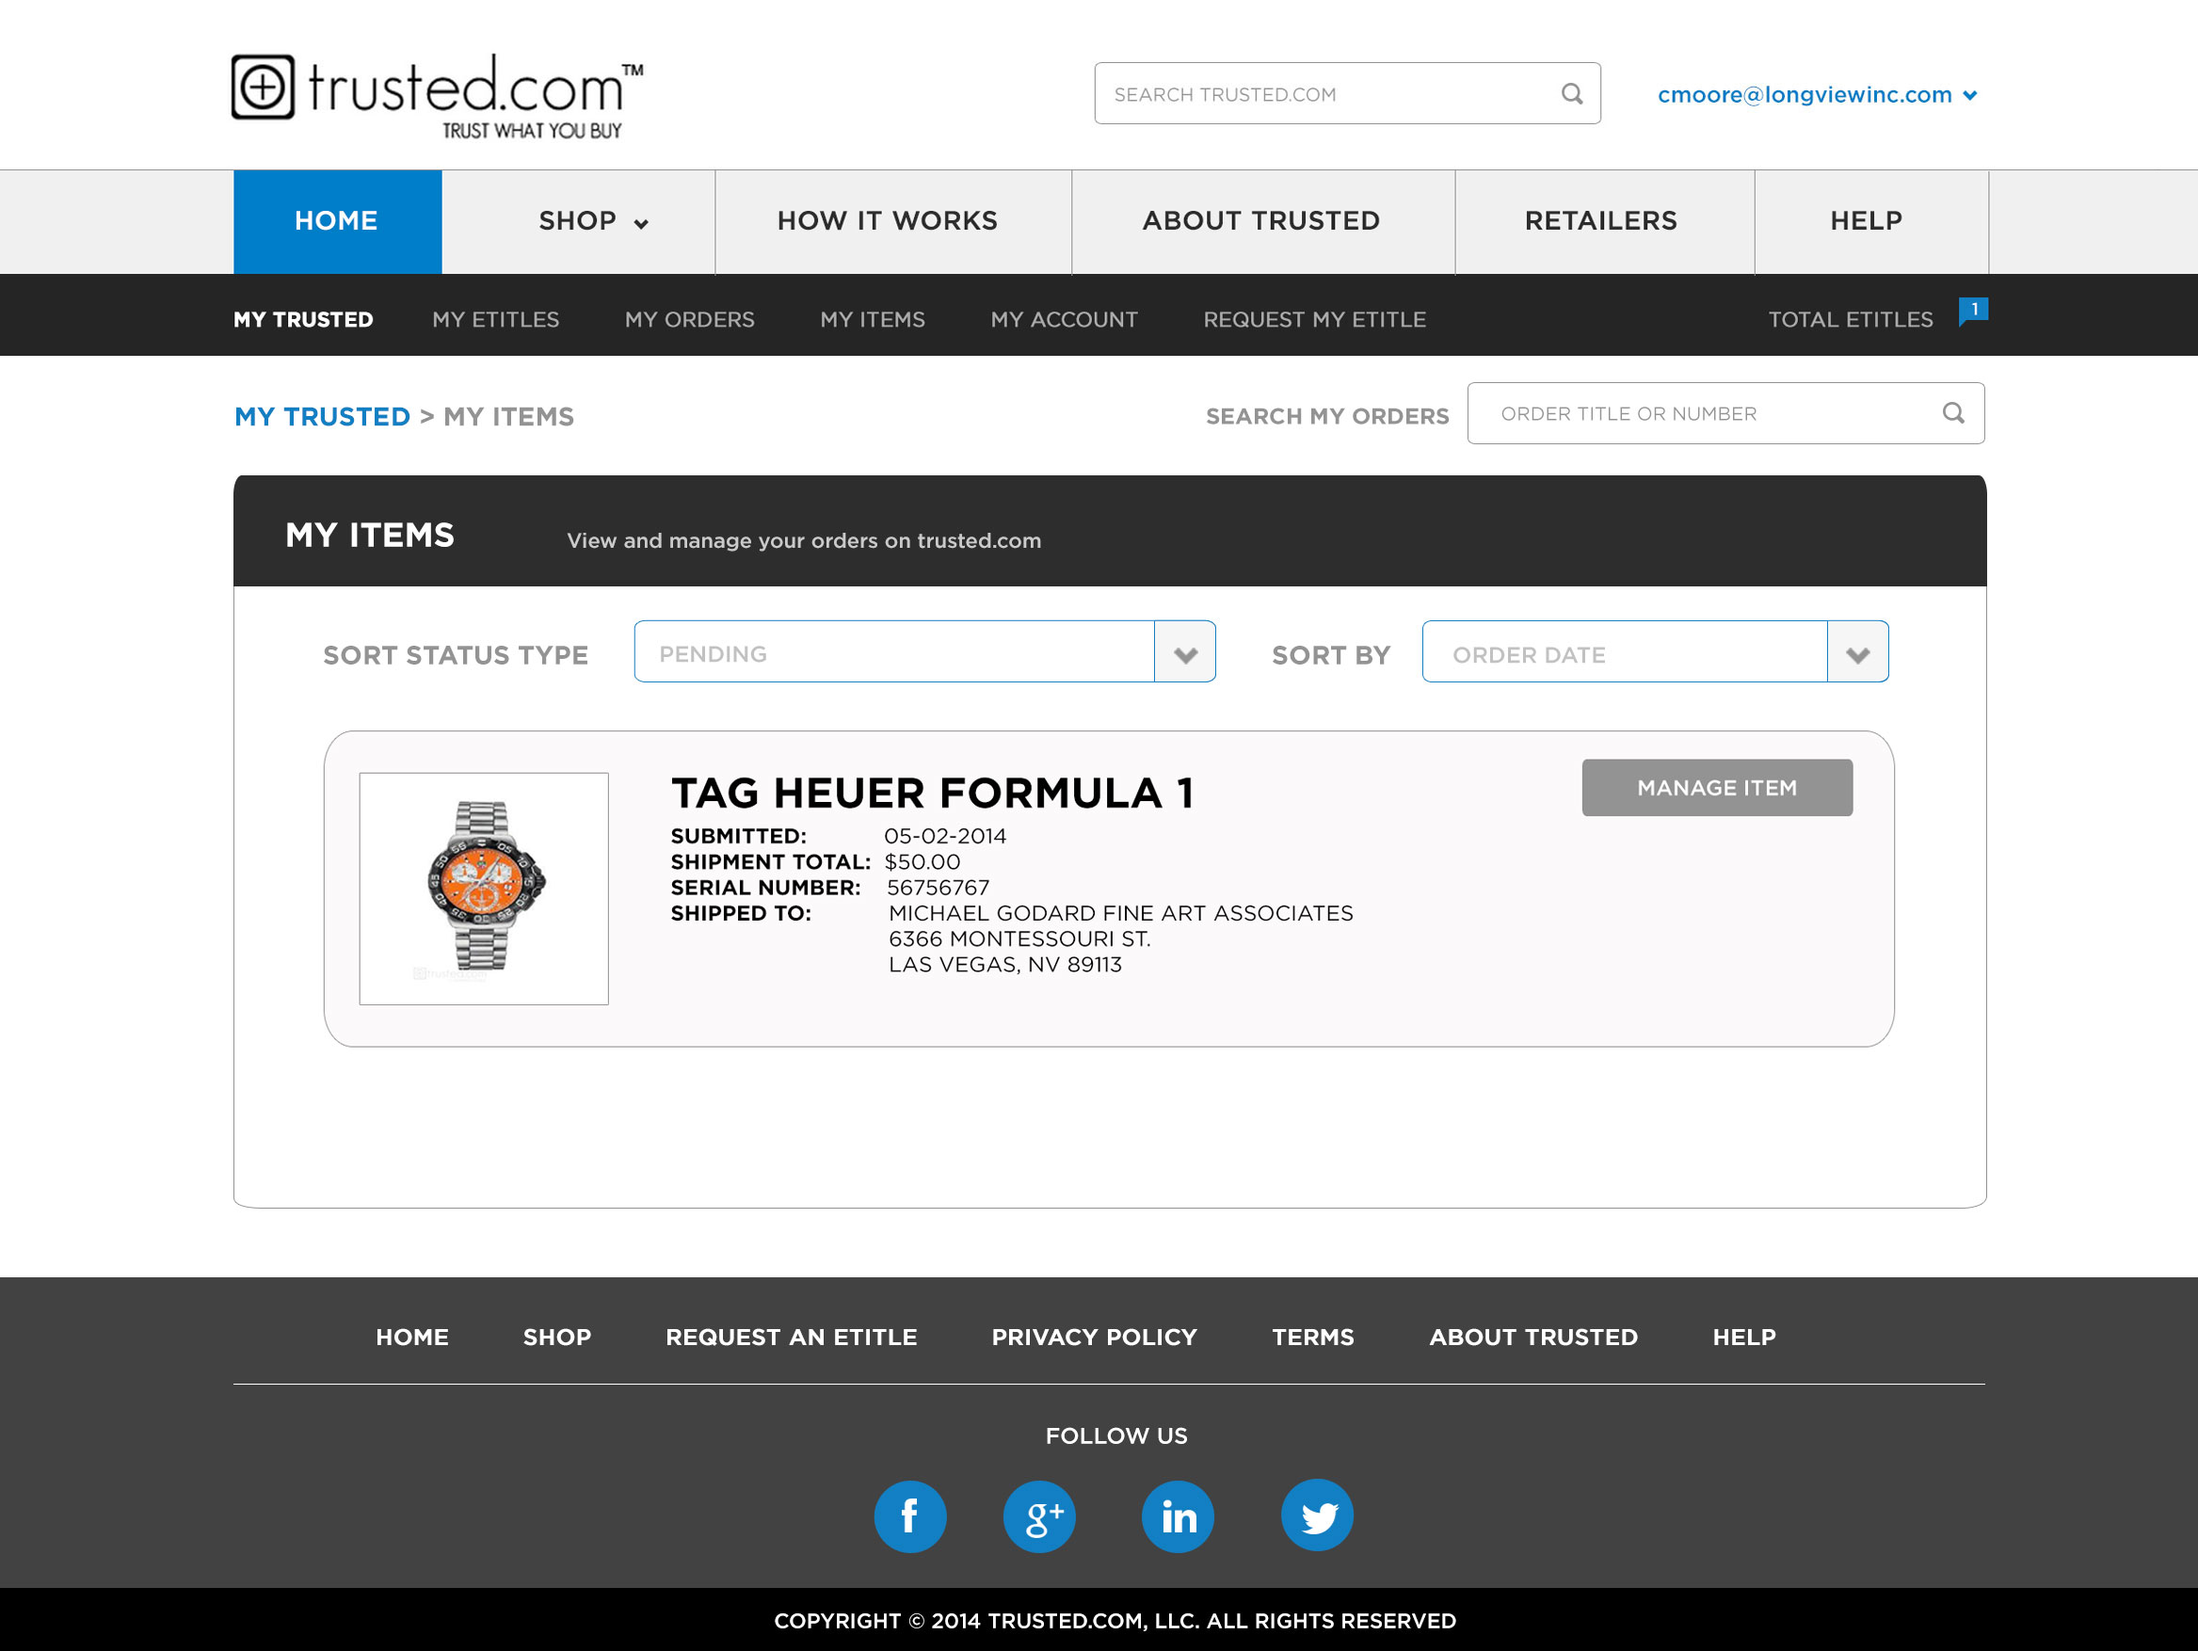
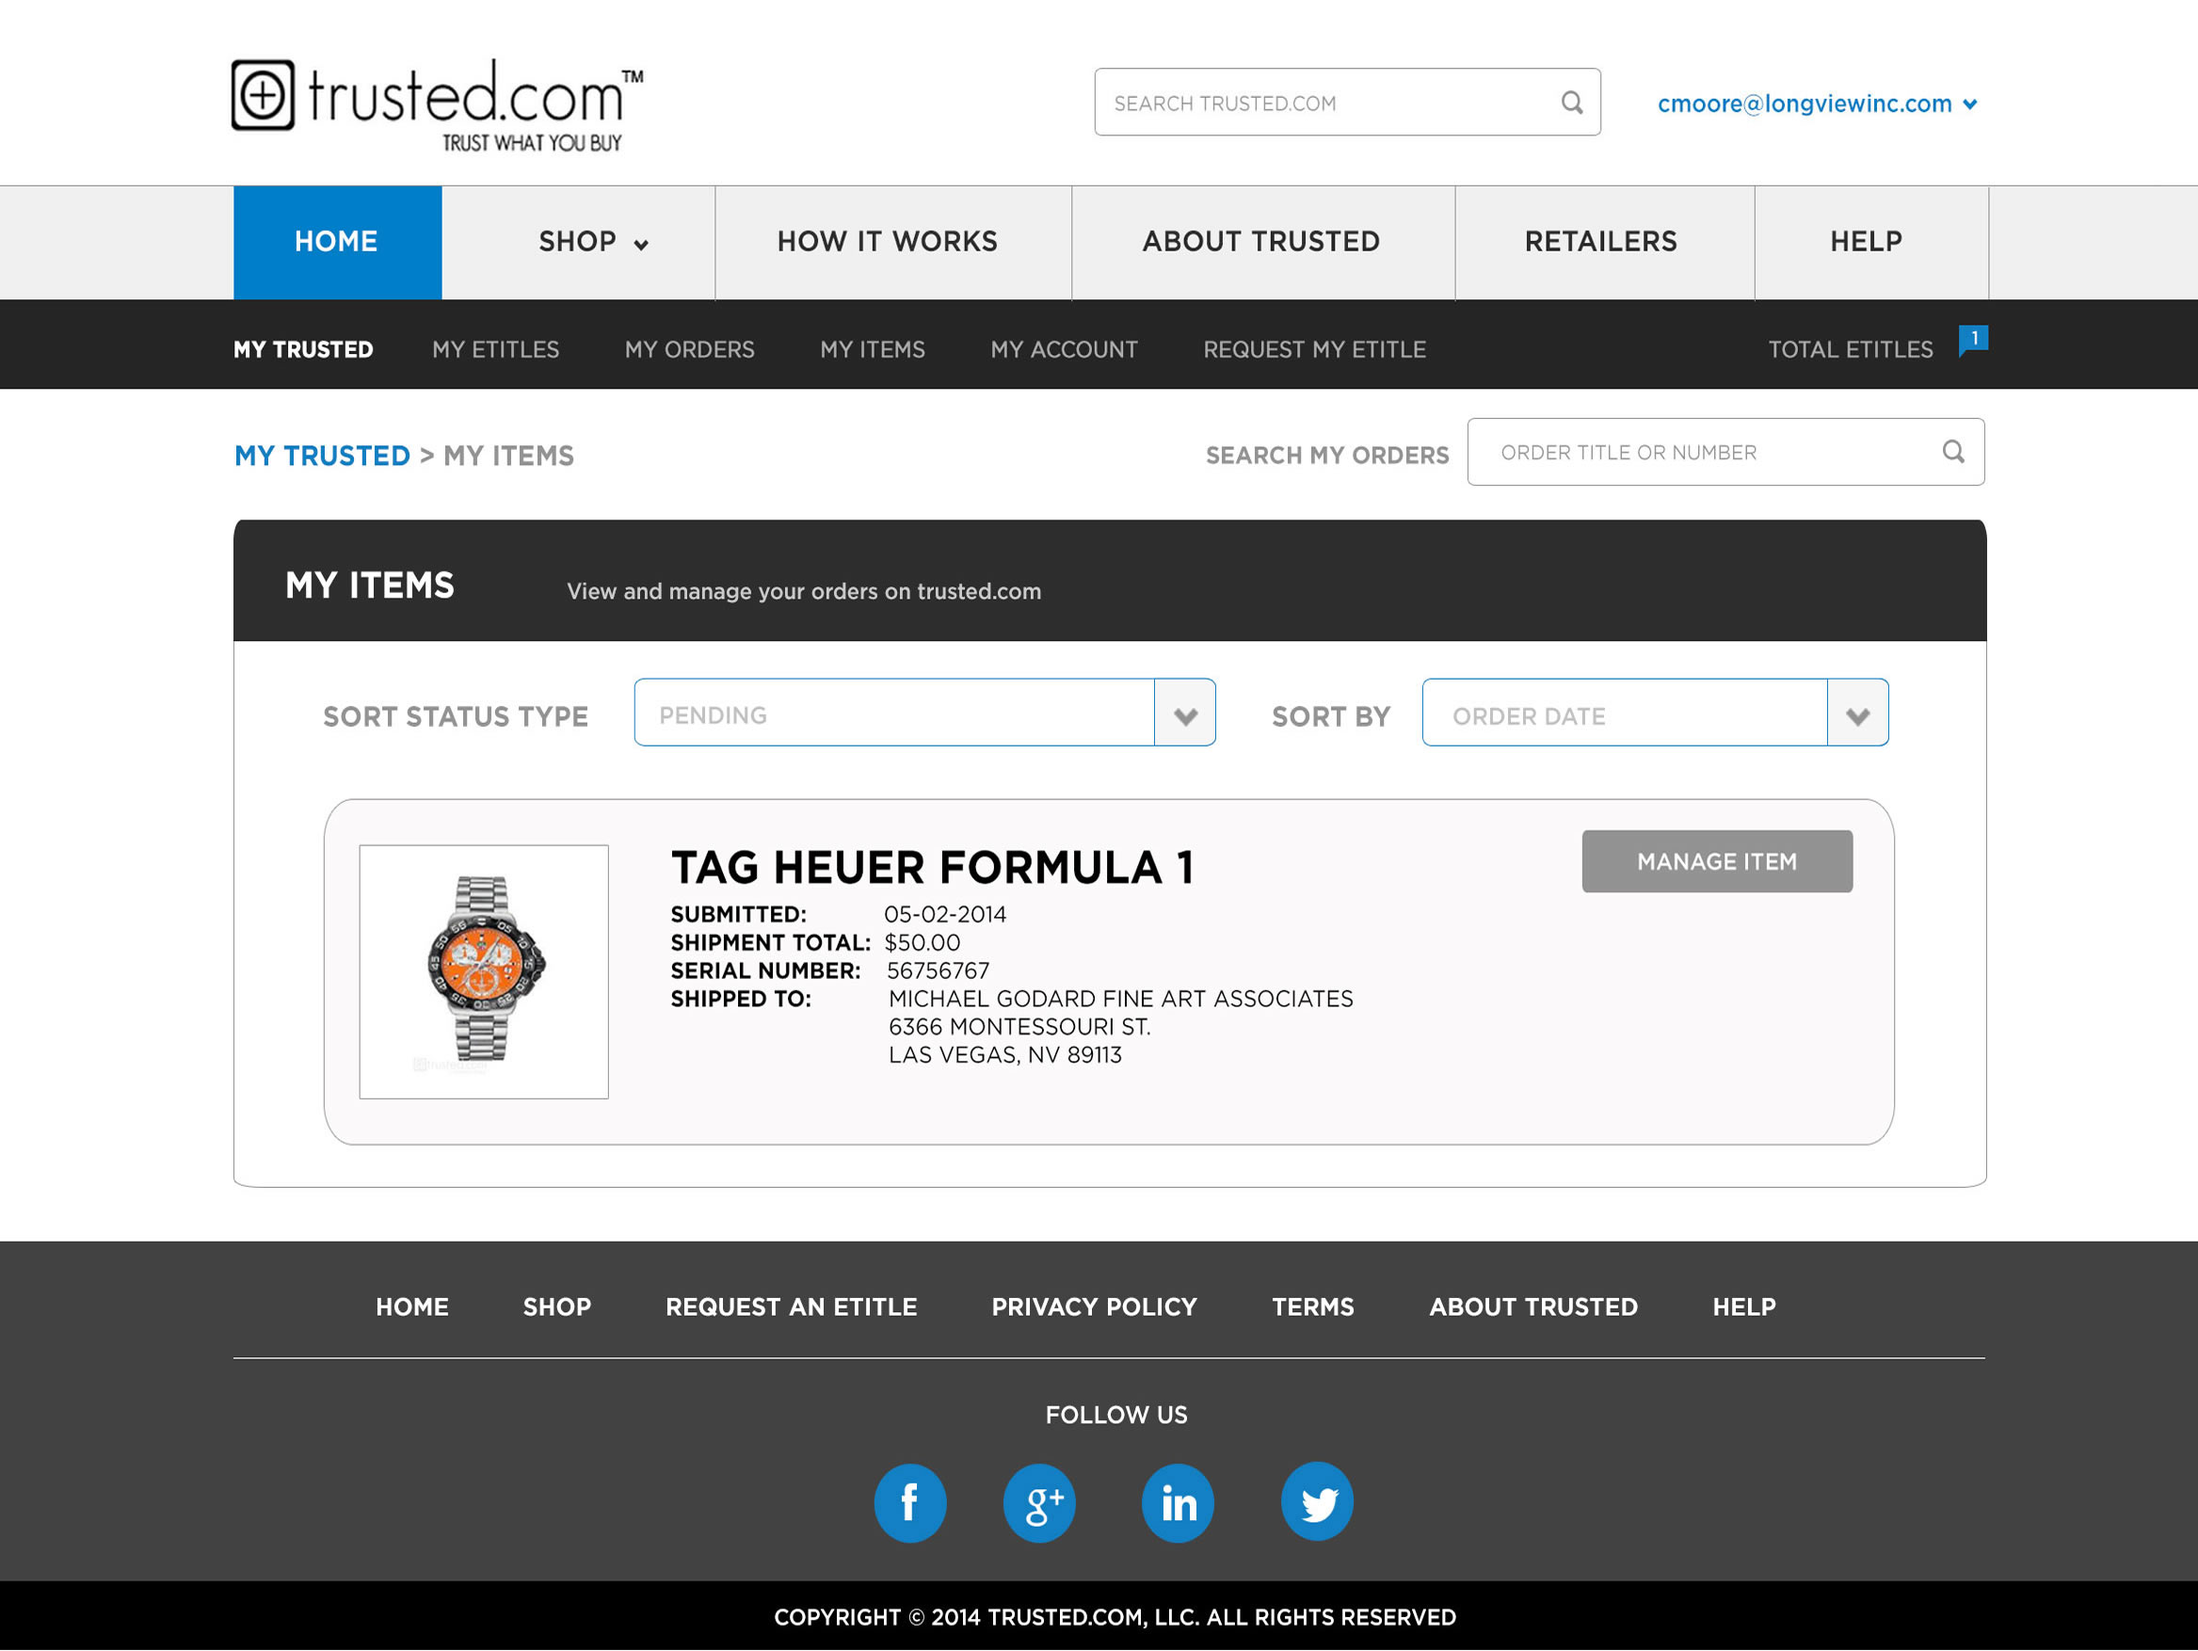
Updates

diff --git a/my-items.html b/my-items.html
@@ -16,14 +16,14 @@ img {
 </style>
 <body>
 
-<img src="images/trusted-my-items-ux.jpg" alt="" width="2335" height="1754" usemap="#Map"/>
-<map name="Map"><area shape="rect" coords="646,155,781,182" href="request.html">
-  <area shape="rect" coords="527,151,628,179" href="account-profile.html">
-  <area shape="rect" coords="431,155,513,180" href="my-items.html">
-<area shape="rect" coords="116,148,205,178" href="index.html">
-  <area shape="rect" coords="228,151,314,180" href="etitle.html">
-  <area shape="rect" coords="329,150,418,178" href="my-orders.html">
-  <area shape="rect" coords="824,395,988,438" href="items-detail.html">
+<img src="images/trusted-my-items-ux.jpg" alt="" width="2335" height="1604" usemap="#Map"/>
+<map name="Map"><area shape="rect" coords="823,441,987,480" href="items-detail.html">
+  <area shape="rect" coords="219,171,305,197" href="etitle.html">
+  <area shape="rect" coords="320,170,409,195" href="my-orders.html">
+<area shape="rect" coords="636,174,771,199" href="request.html">
+  <area shape="rect" coords="518,171,619,196" href="account-profile.html">
+  <area shape="rect" coords="422,174,504,197" href="my-items.html">
+  <area shape="rect" coords="109,168,198,195" href="index.html">
 </map>
 </body>
 </html>
